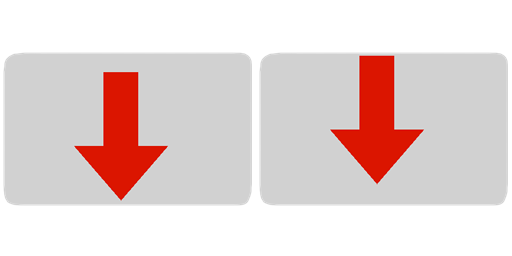
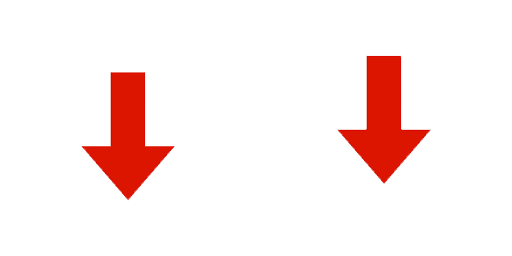
ゲームパッド画像を追加、タイトル画面のセレクトエフェクトを位置調整（適当です）

diff --git a/trickleLibrary/OG2D/src/Task/Task_Title.cpp b/trickleLibrary/OG2D/src/Task/Task_Title.cpp
@@ -281,7 +281,7 @@ void Title::UpDate()
 				break;
 			}
 			auto effect03 = Effect::Create(
-				Vec2(this->textPos[this->cursorNum].x + (this->textPos[this->cursorNum].w / 2), this->textPos[this->cursorNum].y + (this->textPos[this->cursorNum].h / 2)),
+				Vec2(this->textPos[this->cursorNum].x + (this->textPos[this->cursorNum].w / 2 + 50), this->textPos[this->cursorNum].y + (this->textPos[this->cursorNum].h / 2)),
 				Vec2(0, 0),
 				Vec2(320, 64),
 				1,
